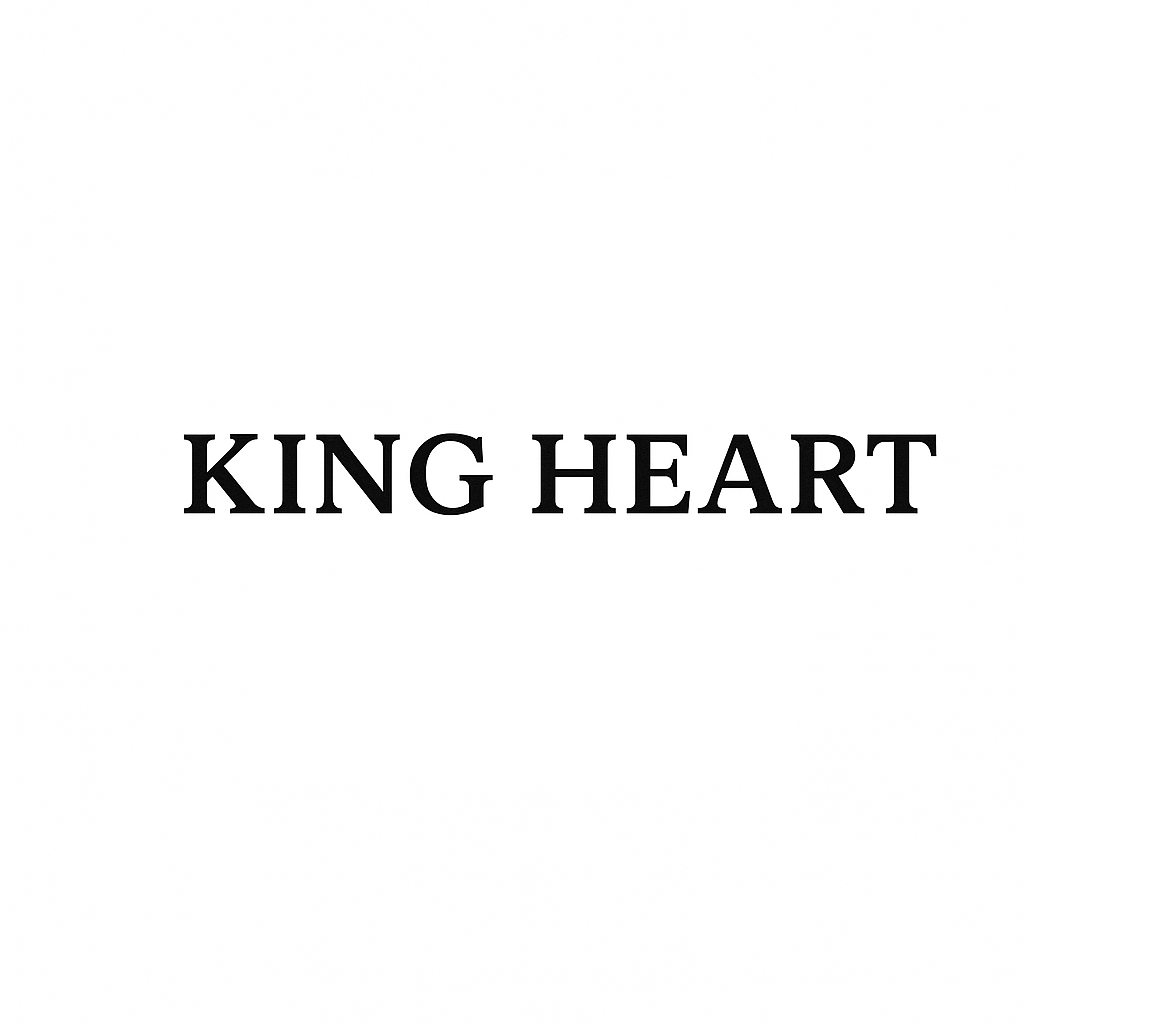
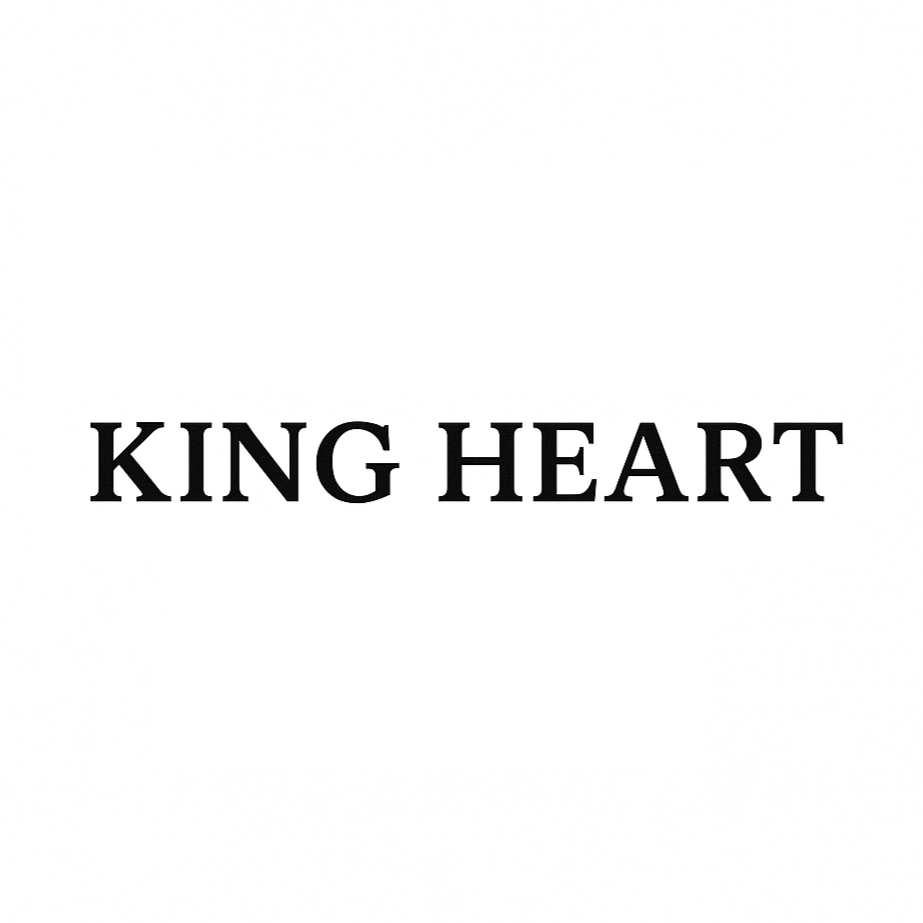
로고 정렬 +

Changed region(s): [[0.455, 0.4247, 0.9101, 0.546], [0.091, 0.4247, 0.4247, 0.546]]

diff --git a/semi-shoppingmall/src/main/java/com/kh/shoppingmall/aop/InterceptorConfiguration.java b/semi-shoppingmall/src/main/java/com/kh/shoppingmall/aop/InterceptorConfiguration.java
@@ -59,7 +59,7 @@ public class InterceptorConfiguration implements WebMvcConfigurer{ //웹 기본 
 		//리뷰 작성자만 (수정/삭제) 인터셉터
 		registry.addInterceptor(reviewAuthorInterceptor)
 		.addPathPatterns("/rest/review/update", "/rest/review/delete")
-		.order(4);
+		.order(5);
 		
 		//(추후) 문의글 (수정, 삭제), 관리자(삭제)_ 인터셉터 등록
 //		registry.addInterceptor(boardOwnerInterceptor)
